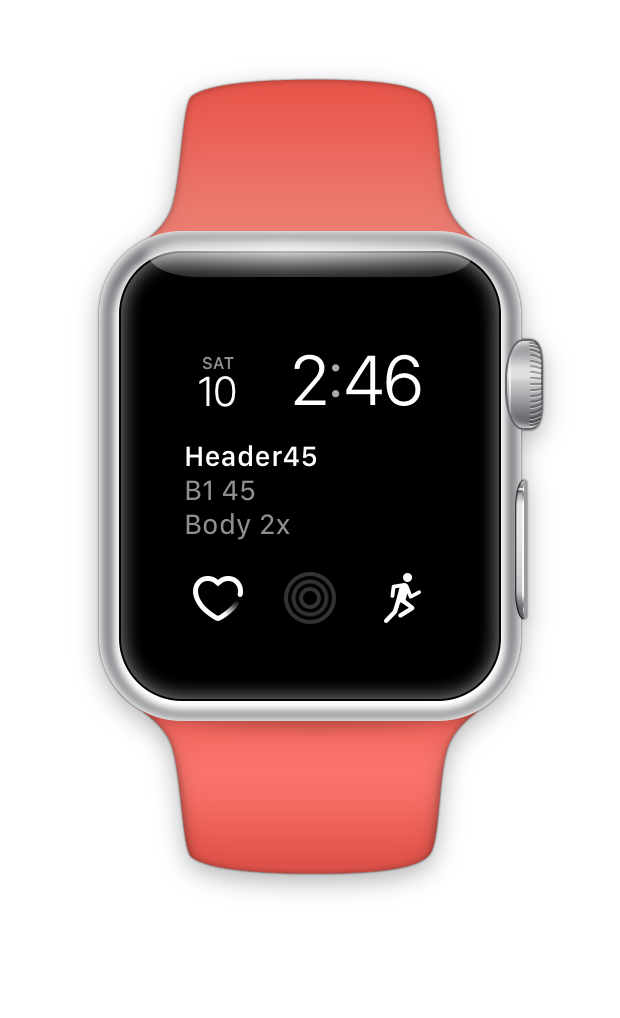
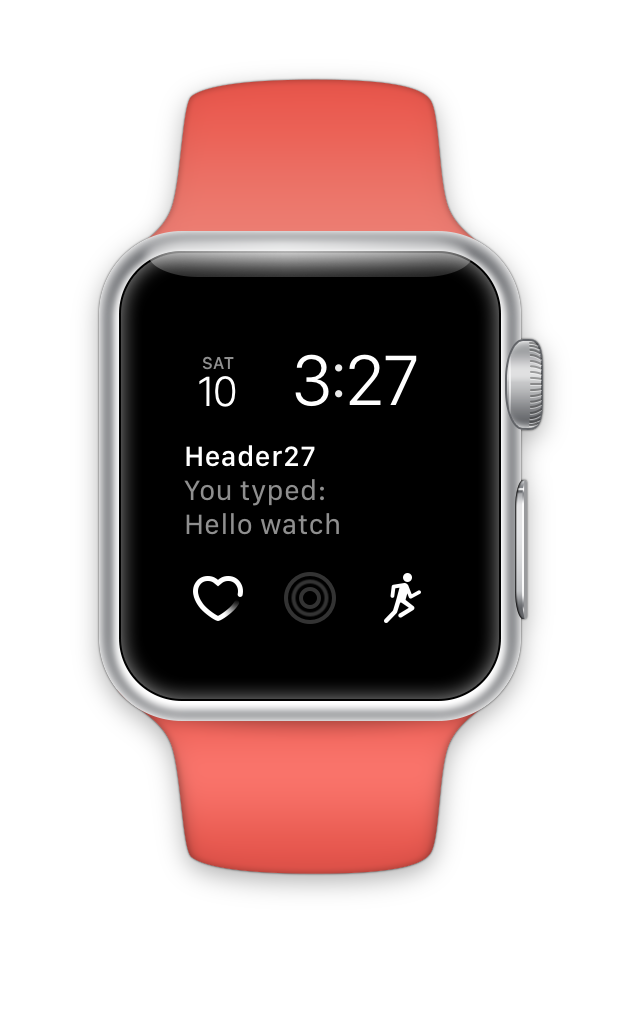
[complication] use scribble to set complication text

Changed region(s): [[0.2758, 0.4263, 0.5516, 0.5481], [0.4597, 0.335, 0.6742, 0.3959]]

diff --git a/WatchComplication/iOSApp.WatchAppExtension/InterfaceController.cs b/WatchComplication/iOSApp.WatchAppExtension/InterfaceController.cs
@@ -2,6 +2,7 @@
 
 using WatchKit;
 using Foundation;
+using ClockKit;
 
 namespace iOSApp.WatchAppExtension
 {
@@ -24,7 +25,14 @@ namespace iOSApp.WatchAppExtension
 		{
 			// This method is called when the watch view controller is about to be visible to the user.
 			Console.WriteLine("{0} will activate", this);
+
+			var c = NSUserDefaults.StandardUserDefaults["complication"];
+			if (c != null)
+			{
+				MessageText.SetText (c.ToString()); // display what they typed last time
+			}
 		}
+
 
 		public override void DidDeactivate()
 		{
@@ -32,23 +40,44 @@ namespace iOSApp.WatchAppExtension
 			Console.WriteLine("{0} did deactivate", this);
 		}
 
-		//partial void UpdateClicked()
-		//{
-		//	Console.WriteLine("BUTTON CLICKED");
-		//	var complicationServer = CLKComplicationServer.SharedInstance; // is null :-(
-		//	if (complicationServer.ActiveComplications != null)
-		//	{
-		//		Console.WriteLine("Active complications!!!!!!!!!!");
-		//		foreach (var complication in complicationServer.ActiveComplications)
-		//		{
-		//			Console.WriteLine("Active " + complication.Description ?? "null");
+		string enteredText = "";
+		partial void SetMessageClicked()
+		{
+			var suggest = new string[] { "Get groceries", "Buy gas", "Post letter" };
 
-		//			complicationServer.ReloadTimeline(complication);
-		//		}
-		//	}
-		//	else {
-		//		Console.WriteLine("No active complications");
-		//	}
-		//}
+			PresentTextInputController(suggest, WatchKit.WKTextInputMode.AllowEmoji, (result) =>
+			{
+				// action when the "text input" is complete
+				if (result != null && result.Count > 0)
+				{
+					// this only works if result is a text response (Plain or AllowEmoji)
+					enteredText = result.GetItem<NSObject>(0).ToString();
+					Console.WriteLine(enteredText);
+					// do something, such as myLabel.SetText(enteredText);
+					MessageText.SetText(enteredText);
+					NSUserDefaults.StandardUserDefaults.SetString(enteredText, "complication");
+				}
+			});
+		}
+
+
+		partial void UpdateClicked()
+		{
+			Console.WriteLine("BUTTON CLICKED");
+			var complicationServer = CLKComplicationServer.SharedInstance; // is null :-(
+			if (complicationServer.ActiveComplications != null)
+			{
+				Console.WriteLine("Active complications!!!!!!!!!!");
+				foreach (var complication in complicationServer.ActiveComplications)
+				{
+					Console.WriteLine("Active " + complication.Description ?? "null");
+
+					complicationServer.ReloadTimeline(complication);
+				}
+			}
+			else {
+				Console.WriteLine("No active complications");
+			}
+		}
 	}
 }

diff --git a/WatchComplication/iOSApp.WatchAppExtension/InterfaceController.designer.cs b/WatchComplication/iOSApp.WatchAppExtension/InterfaceController.designer.cs
@@ -1,18 +1,46 @@
-//
-// This file has been generated automatically by MonoDevelop to store outlets and
-// actions made in the Xcode designer. If it is removed, they will be lost.
-// Manual changes to this file may not be handled correctly.
+// WARNING
 //
-
+// This file has been generated automatically by Xamarin Studio from the outlets and
+// actions declared in your storyboard file.
+// Manual changes to this file will not be maintained.
+//
 using Foundation;
+using System;
+using System.CodeDom.Compiler;
+using UIKit;
 
 namespace iOSApp.WatchAppExtension
 {
-	[Register("InterfaceController")]
-	partial class InterfaceController
-	{
-		void ReleaseDesignerOutlets()
-		{
-		}
-	}
+    [Register ("InterfaceController")]
+    partial class InterfaceController
+    {
+        [Outlet]
+        [GeneratedCode ("iOS Designer", "1.0")]
+        WatchKit.WKInterfaceLabel MessageText { get; set; }
+
+        [Outlet]
+        [GeneratedCode ("iOS Designer", "1.0")]
+        WatchKit.WKInterfaceButton SetMessageButton { get; set; }
+
+        [Action ("SetMessageClicked")]
+        [GeneratedCode ("iOS Designer", "1.0")]
+        partial void SetMessageClicked ();
+
+        [Action ("UpdateClicked")]
+        [GeneratedCode ("iOS Designer", "1.0")]
+        partial void UpdateClicked ();
+
+        void ReleaseDesignerOutlets ()
+        {
+            if (MessageText != null) {
+                MessageText.Dispose ();
+                MessageText = null;
+            }
+
+            if (SetMessageButton != null) {
+                SetMessageButton.Dispose ();
+                SetMessageButton = null;
+            }
+        }
+    }
 }

diff --git a/WatchComplication/iOSApp.WatchAppExtension/ComplicationController.cs b/WatchComplication/iOSApp.WatchAppExtension/ComplicationController.cs
@@ -38,6 +38,15 @@ namespace iOSApp.WatchAppExtension
 					textTemplate.Body1TextProvider = CLKSimpleTextProvider.FromText("B1 " + txt, "X1", "~~~");
 					textTemplate.Body2TextProvider = CLKSimpleTextProvider.FromText("Body 2x", "X2", "---");
 
+					// if the user typed something in the app, show that in complication
+					var c = NSUserDefaults.StandardUserDefaults["complication"];
+					if (c != null) 
+					{ 
+						textTemplate.Body1TextProvider = CLKSimpleTextProvider.FromText("You typed:", "You:", "~~~");
+						textTemplate.Body2TextProvider = CLKSimpleTextProvider.FromText(c.ToString(), c.ToString(), "---");
+					}
+
+
 					entry = CLKComplicationTimelineEntry.Create(NSDate.Now, textTemplate);
 
 				}
